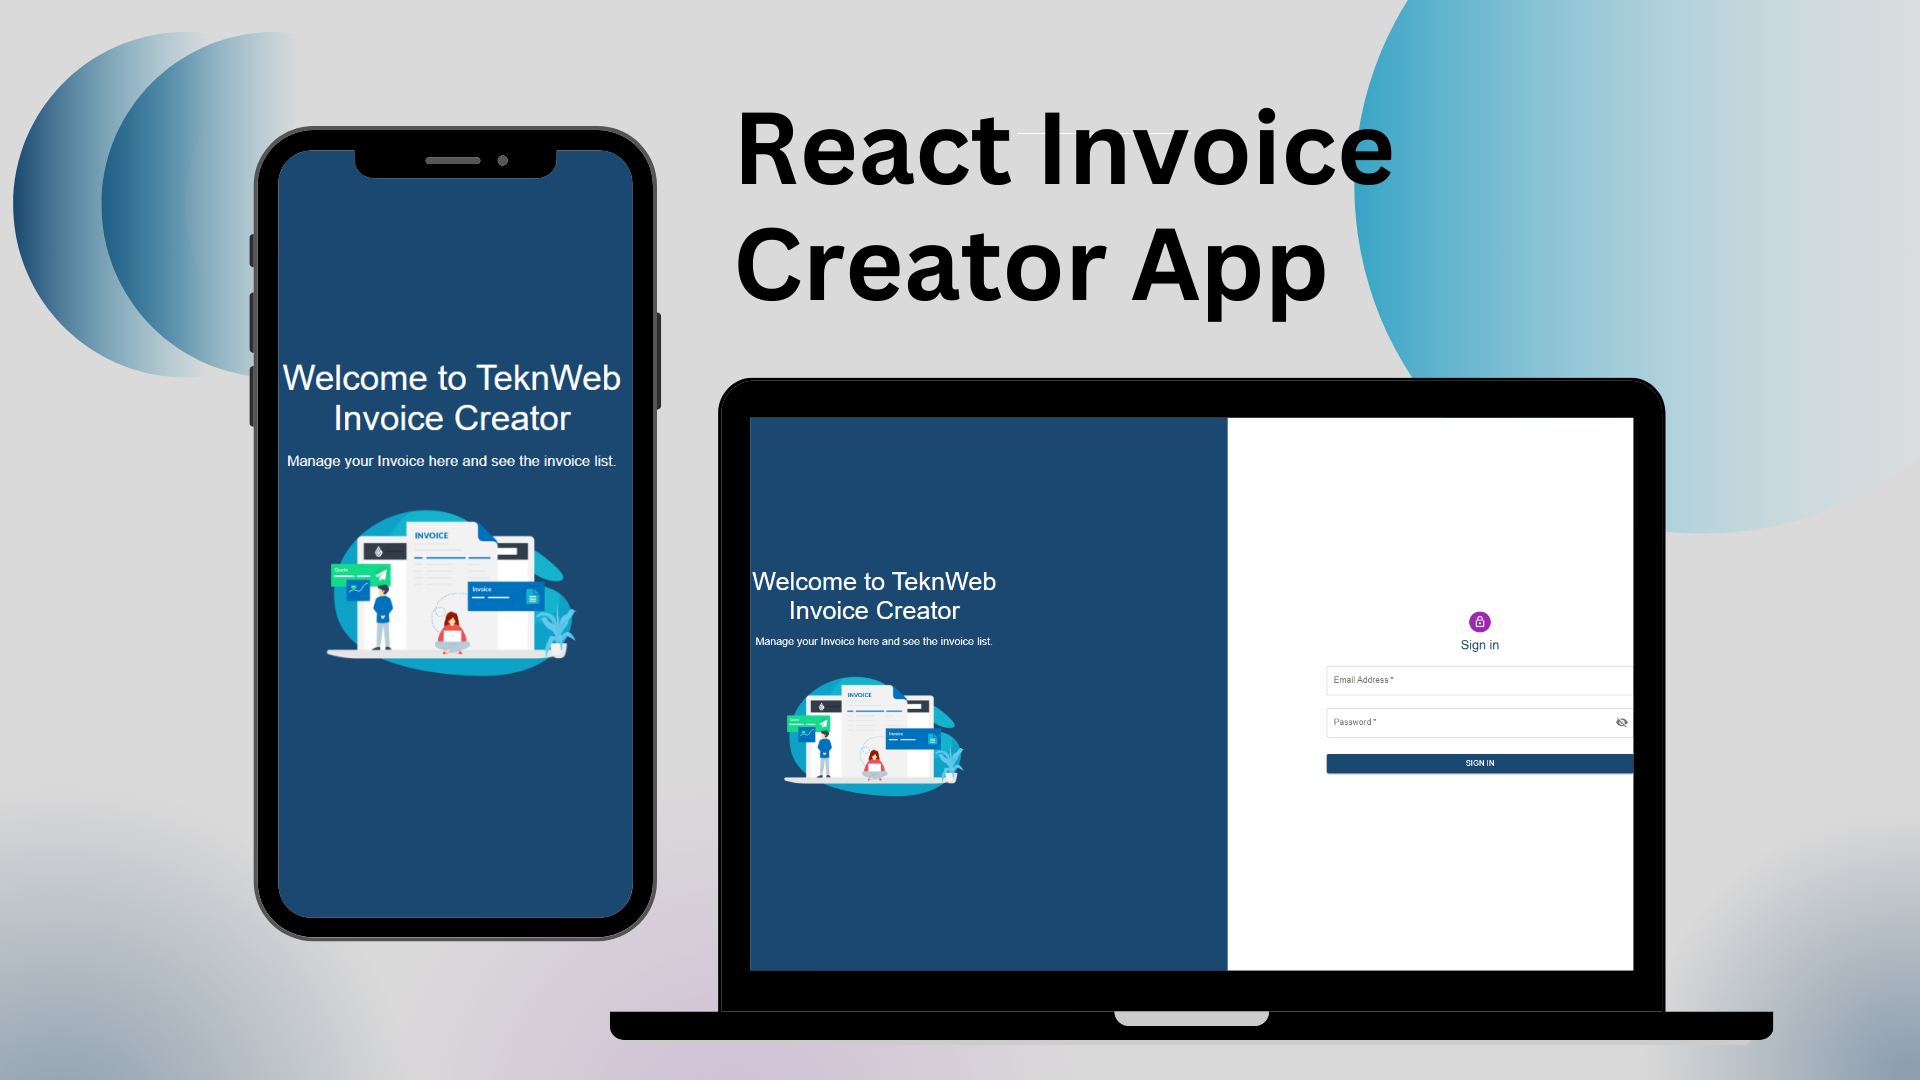
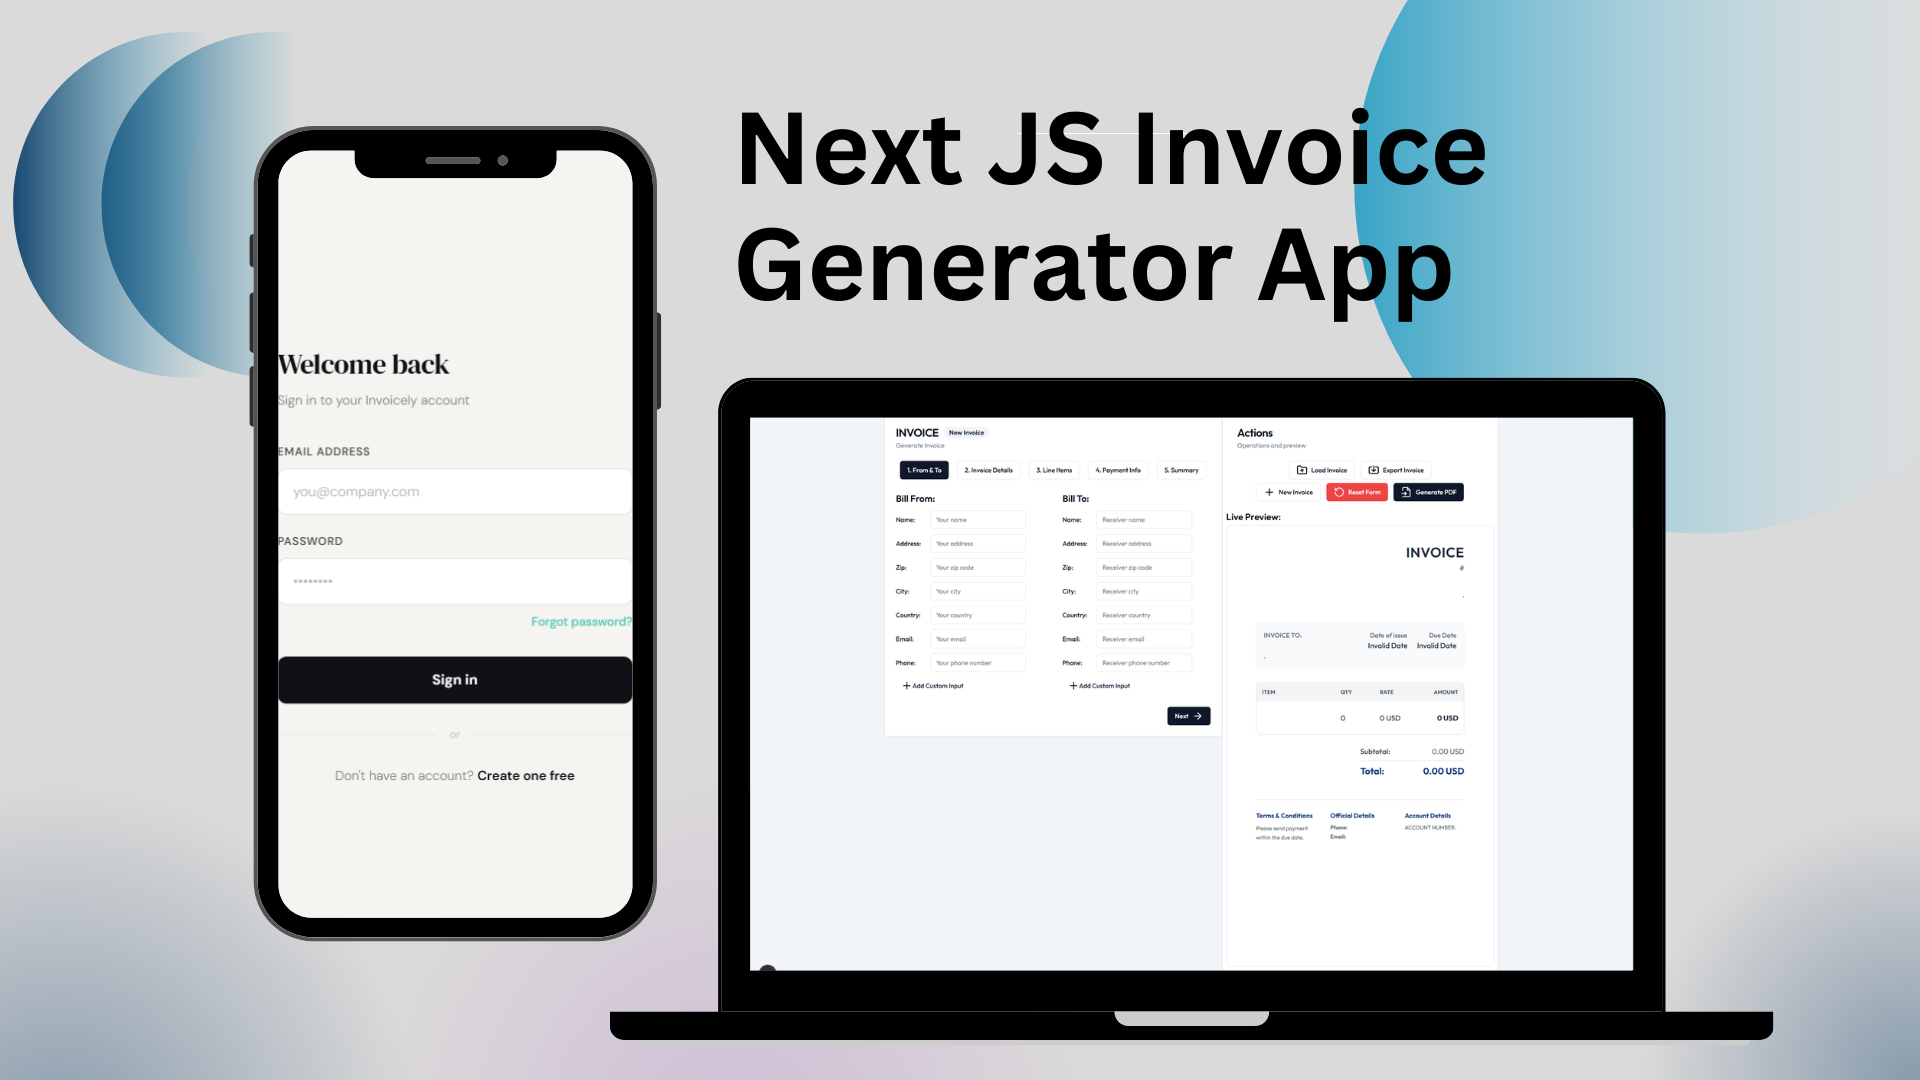
added projects

diff --git a/src/app/components/ProjectsSection.jsx b/src/app/components/ProjectsSection.jsx
@@ -7,6 +7,53 @@ import { motion, useInView } from "framer-motion";
 const projectsData = [
   {
     id: 1,
+    title: "React Native Ecommerce App",
+    description:
+      "Developed a full-featured eCommerce mobile application using React Native, where I built the complete UI and integrated RESTful APIs for dynamic product listings, search functionality, cart management, order processing, and secure payment gateway integration. The app was structured with reusable components, optimized navigation, and efficient state management to deliver a smooth, scalable, and production-ready mobile shopping experience.",
+    image: "/images/projects/6.png",
+    tag: ["All", "Mobile"],
+    gitUrl: "https://github.com/ZA-FrontendDev",
+    previewUrl:
+      "https://drive.google.com/file/d/1nJCeZRse3yJcQN4kjFyHjQtqII9vQgEc/view?usp=sharing",
+    technologies: [
+      {
+        name: "React",
+        icon: "/images/react.png",
+        color: "bg-gray-500",
+      },
+      {
+        name: "JavaScript",
+        icon: "/images/JavaScript.png",
+        color: "bg-gray-500",
+      },
+      { name: "CSS", icon: "/images/css.png", color: "bg-gray-500" },
+    ],
+  },
+  {
+    id: 2,
+    title: "React Q9 labs AI Dashboard",
+    description:
+      "Developed an AI-powered calling platform for sales and customer support using React and TypeScript. I designed and implemented the complete frontend UI, including agent management dashboards, prompt configuration screens, and workflow interfaces for handling AI-driven conversations. The interface was built with a focus on clean architecture, reusable components, and responsive design to ensure scalability and a smooth user experience.",
+    image: "/images/projects/5.png",
+    tag: ["All", "Web"],
+    gitUrl: "https://github.com/ZA-FrontendDev",
+    previewUrl: "https://ava.q9labs.ai/",
+    technologies: [
+      {
+        name: "React",
+        icon: "/images/react.png",
+        color: "bg-gray-500",
+      },
+      {
+        name: "JavaScript",
+        icon: "/images/JavaScript.png",
+        color: "bg-gray-500",
+      },
+      { name: "CSS", icon: "/images/css.png", color: "bg-gray-500" },
+    ],
+  },
+  {
+    id: 3,
     title: "React Native Job Funda App",
     description:
       "A user-friendly app designed to simplify the job search process.Browse jobs across various industries and locations. Advanced filters for job type, location with a powerful search bar to find the perfect match quickly. View detailed job descriptions, qualifications, and about company.",
@@ -30,7 +77,7 @@ const projectsData = [
     ],
   },
   {
-    id: 2,
+    id: 4,
     title: "React Native LMS App",
     description:
       "This LMS application is developed using React Native and is designed to simplify the educational experience for students and teachers.Integrated Jitsi Meet for seamless video conferencing and online classes, enabling real-time interaction between students and teachers.",
@@ -62,7 +109,7 @@ const projectsData = [
     ],
   },
   {
-    id: 3,
+    id: 5,
     title: "React Car Showcase App",
     description:
       "A modern web application for exploring cars displays a wide range of cars fetched dynamically using APIs.Filter cars by make, model, year, and price to find your ideal vehicle.Explore car specifications, features, and images in detail.Its responsive web application using React , Next and Tailwind CSS.",
@@ -99,14 +146,14 @@ const projectsData = [
     ],
   },
   {
-    id: 4,
-    title: "React Invoice Creator App",
+    id: 6,
+    title: "Next JS Invoice Generator App",
     description:
       "A web application designed for creating and managing invoices efficiently.Generate professional invoices with customizable fields.View and manage a list of created invoices for easy tracking.Users stay logged in securely using local storage for session persistence.",
     image: "/images/projects/4.png",
     tag: ["All", "Web"],
-    gitUrl: "https://github.com/ZA-FrontendDev/invoice-system",
-    previewUrl: "https://teknweb-invoice-system.vercel.app/",
+    gitUrl: "https://github.com/ZA-FrontendDev/new-invoice",
+    previewUrl: "https://new-invoice-za.vercel.app/en/login",
     technologies: [
       {
         name: "React",
@@ -118,7 +165,12 @@ const projectsData = [
         icon: "/images/JavaScript.png",
         color: "bg-gray-500",
       },
-      { name: "CSS", icon: "/images/css.png", color: "bg-gray-500" },
+      {
+        name: "Nextjs",
+        icon: "/images/nextjs.png",
+        color: "bg-gray-500",
+      },
+      { name: "Tailwind", icon: "/images/Tailwind.png", color: "bg-gray-500" },
     ],
   },
 ];
@@ -133,7 +185,7 @@ const ProjectsSection = () => {
   };
 
   const filteredProjects = projectsData.filter((project) =>
-    project.tag.includes(tag)
+    project.tag.includes(tag),
   );
 
   const cardVariants = {

diff --git a/src/app/components/AboutSection.jsx b/src/app/components/AboutSection.jsx
@@ -4,20 +4,21 @@ import Image from "next/image";
 import TabButton from "./TabButton";
 
 const SKILLS_DATA = [
-  { name: "WordPress", category: "cms" },
-  { name: "Shopify", category: "ecommerce" },
+  { name: "React Js", category: "frontend" },
+  { name: "React Native", category: "mobile" },
   { name: "HTML", category: "frontend" },
   { name: "CSS", category: "frontend" },
   { name: "JavaScript", category: "frontend" },
-  { name: "Bootstrap", category: "frontend" },
-  { name: "UI/UX (Figma)", category: "design" },
-  { name: "React Js", category: "frontend" },
-  { name: "React Native", category: "mobile" },
   { name: "TypeScript", category: "frontend" },
   { name: "Tailwind CSS", category: "frontend" },
   { name: "Node Js", category: "backend" },
   { name: "MongoDB", category: "database" },
+  { name: "PostgreSql", category: "database" },
   { name: "Express js", category: "backend" },
+  { name: "WordPress", category: "cms" },
+  { name: "Shopify", category: "ecommerce" },
+  { name: "Bootstrap", category: "frontend" },
+  { name: "UI/UX (Figma)", category: "design" },
 ];
 
 const TAB_DATA = [
@@ -118,16 +119,26 @@ const AboutSection = () => {
             About Me
           </h2>
 
-          <p className="text-base lg:text-lg mb-8">
-            As a Frontend Developer, I specialize in creating responsive and
+          <p className="text-base lg:text-lg mb-6">
+            As a Frontend Developer, I specialize in building responsive and
             visually appealing user interfaces using modern frameworks like
             React and React Native, with a strong understanding of UI/UX design
-            principles to deliver intuitive user experiences. Additionally, I am
-            currently learning the MERN stack (MongoDB, Express, React, Node.js)
-            to enhance my skills in backend development and database management.
-            My commitment to continuous learning keeps me updated with the
-            latest frontend and backend technologies and trends, enabling me to
-            provide high-quality solutions.
+            principles to deliver intuitive and user-centered experiences. I
+            also have hands-on experience integrating RESTful APIs and
+            third-party services into frontend applications, ensuring seamless
+            data flow, real-time updates, and efficient state management.
+            Additionally, I have worked with Convex for backend integration,
+            implementing real-time data synchronization and structured backend
+            logic within modern web applications.
+          </p>
+
+          <p className="text-base lg:text-lg">
+            Alongside frontend development, I am currently expanding my
+            expertise in the MERN stack (MongoDB, Express, React, Node.js) to
+            strengthen my backend development and database management skills. My
+            commitment to continuous learning keeps me aligned with the latest
+            frontend and backend technologies, enabling me to design and deliver
+            scalable, high-quality full-stack solutions.
           </p>
           <div className="flex flex-row justify-start mt-8">
             <TabButton

diff --git a/src/app/layout.js b/src/app/layout.js
@@ -1,17 +1,17 @@
-import './globals.css'
-import { Inter } from 'next/font/google'
+import "./globals.css";
+import { Inter } from "next/font/google";
 
-const inter = Inter({ subsets: ['latin'] })
+const inter = Inter({ subsets: ["latin"] });
 
 export const metadata = {
-  title: 'Create Next App',
-  description: 'Generated by create next app',
-}
+  title: "My Portfolio",
+  description: "Frontend Developer Porfolio",
+};
 
 export default function RootLayout({ children }) {
   return (
     <html lang="en">
       <body className={inter.className}>{children}</body>
     </html>
-  )
+  );
 }

diff --git a/src/app/components/EmailSection.jsx b/src/app/components/EmailSection.jsx
@@ -59,10 +59,7 @@ const EmailSection = () => {
           <Link href="https://github.com/ZA-FrontendDev" target="_blank">
             <Image src={GithubIcon} alt="Github Icon" />
           </Link>
-          <Link
-            href="https://www.linkedin.com/in/muhammad-zain-ahsan-4699a5215/"
-            target="_blank"
-          >
+          <Link href="https://linkedin.com/in/za-mern" target="_blank">
             <Image src={LinkedinIcon} alt="Linkedin Icon" />
           </Link>
         </div>
